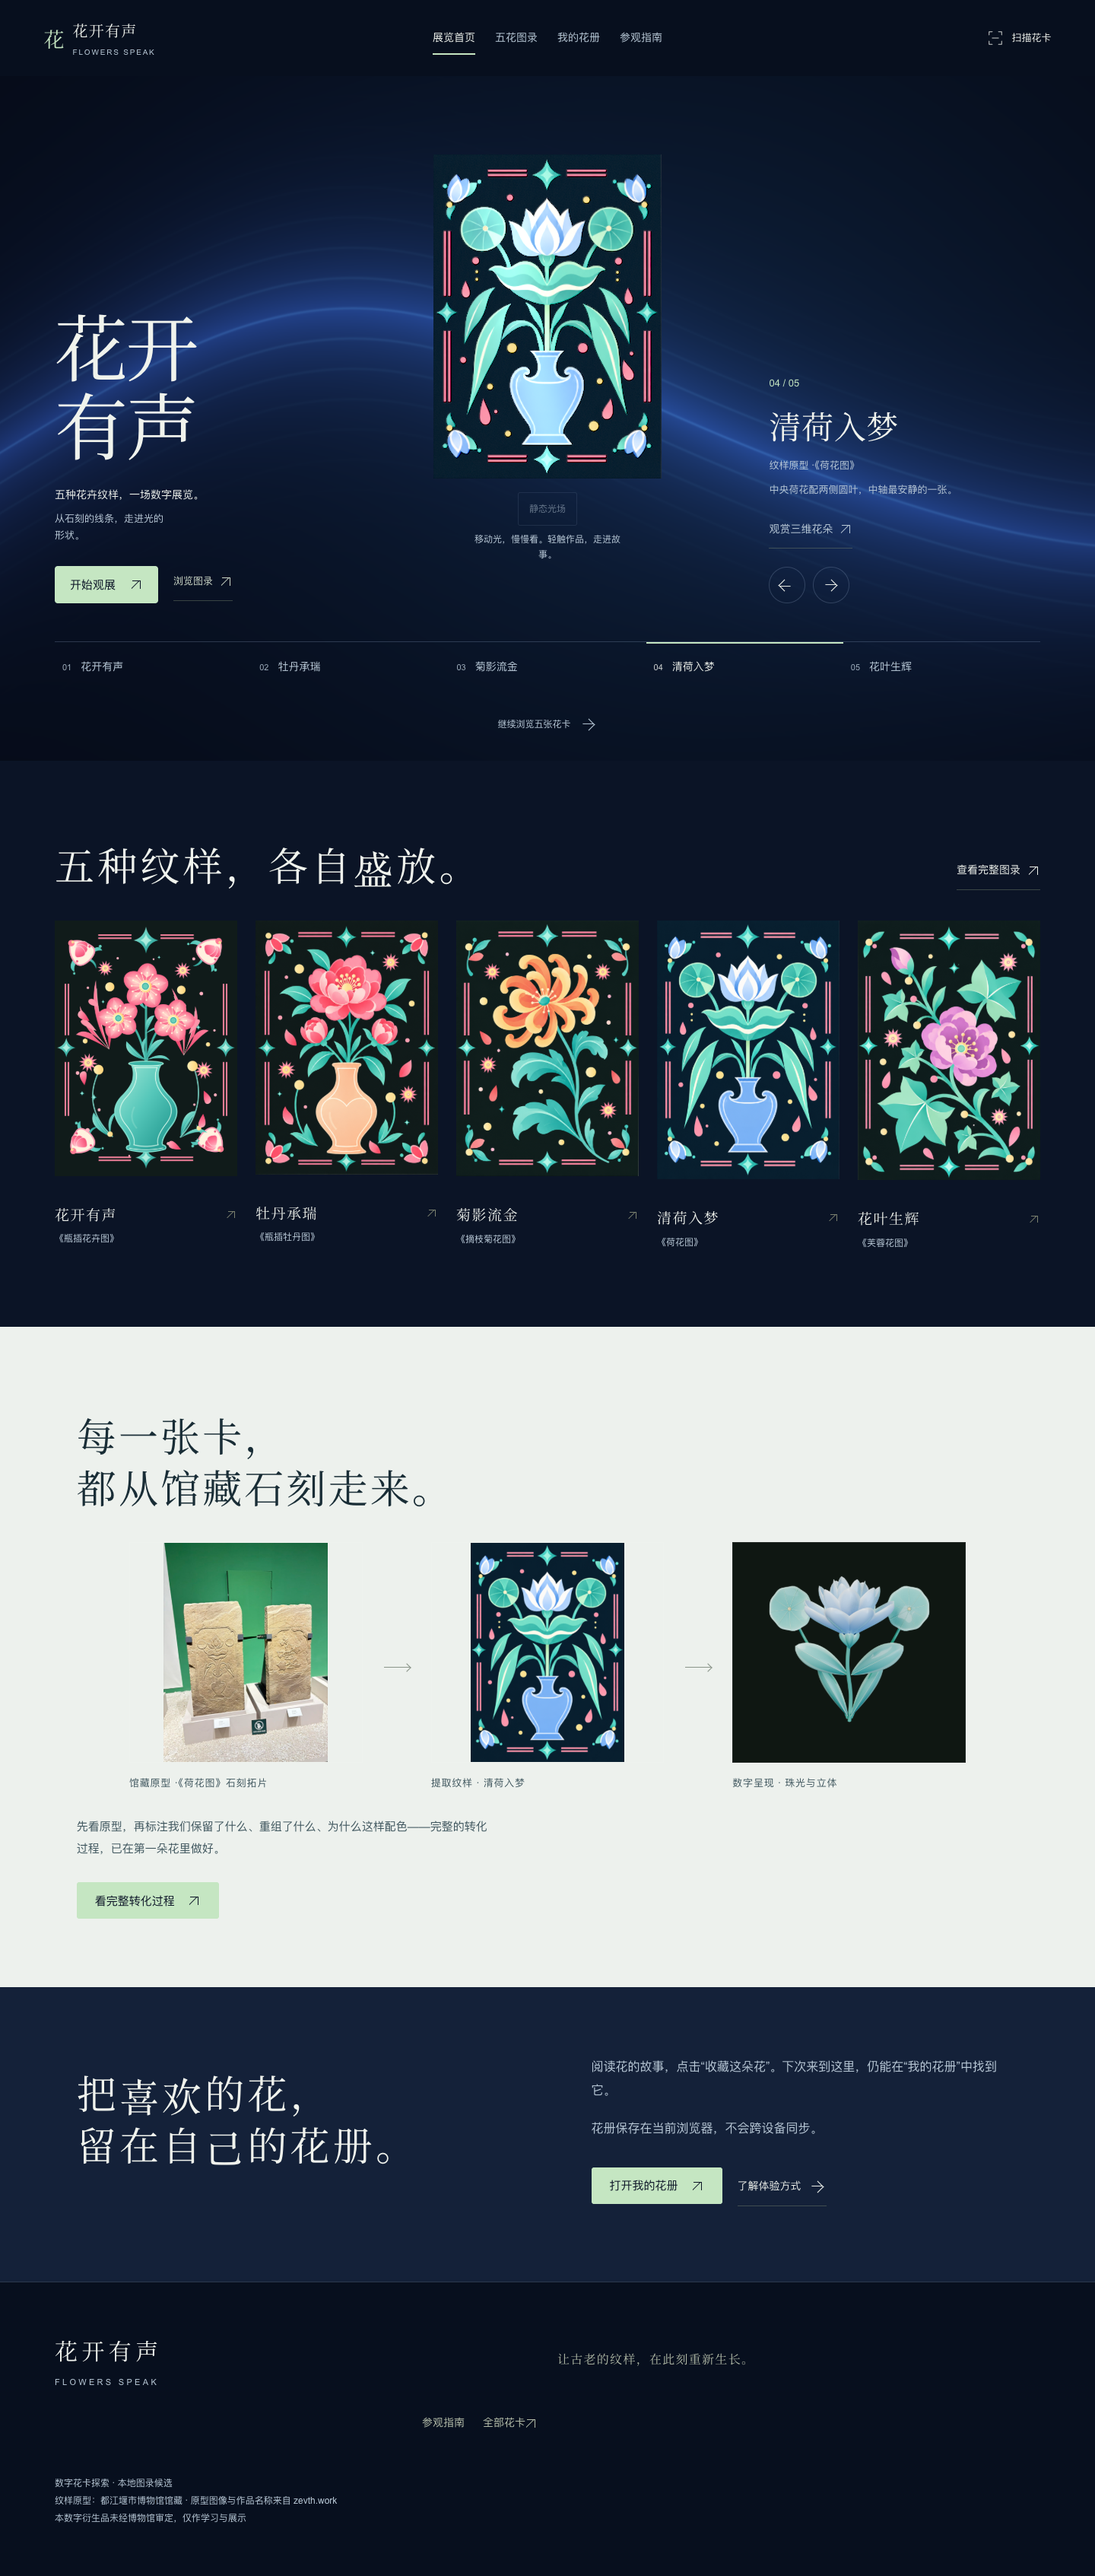
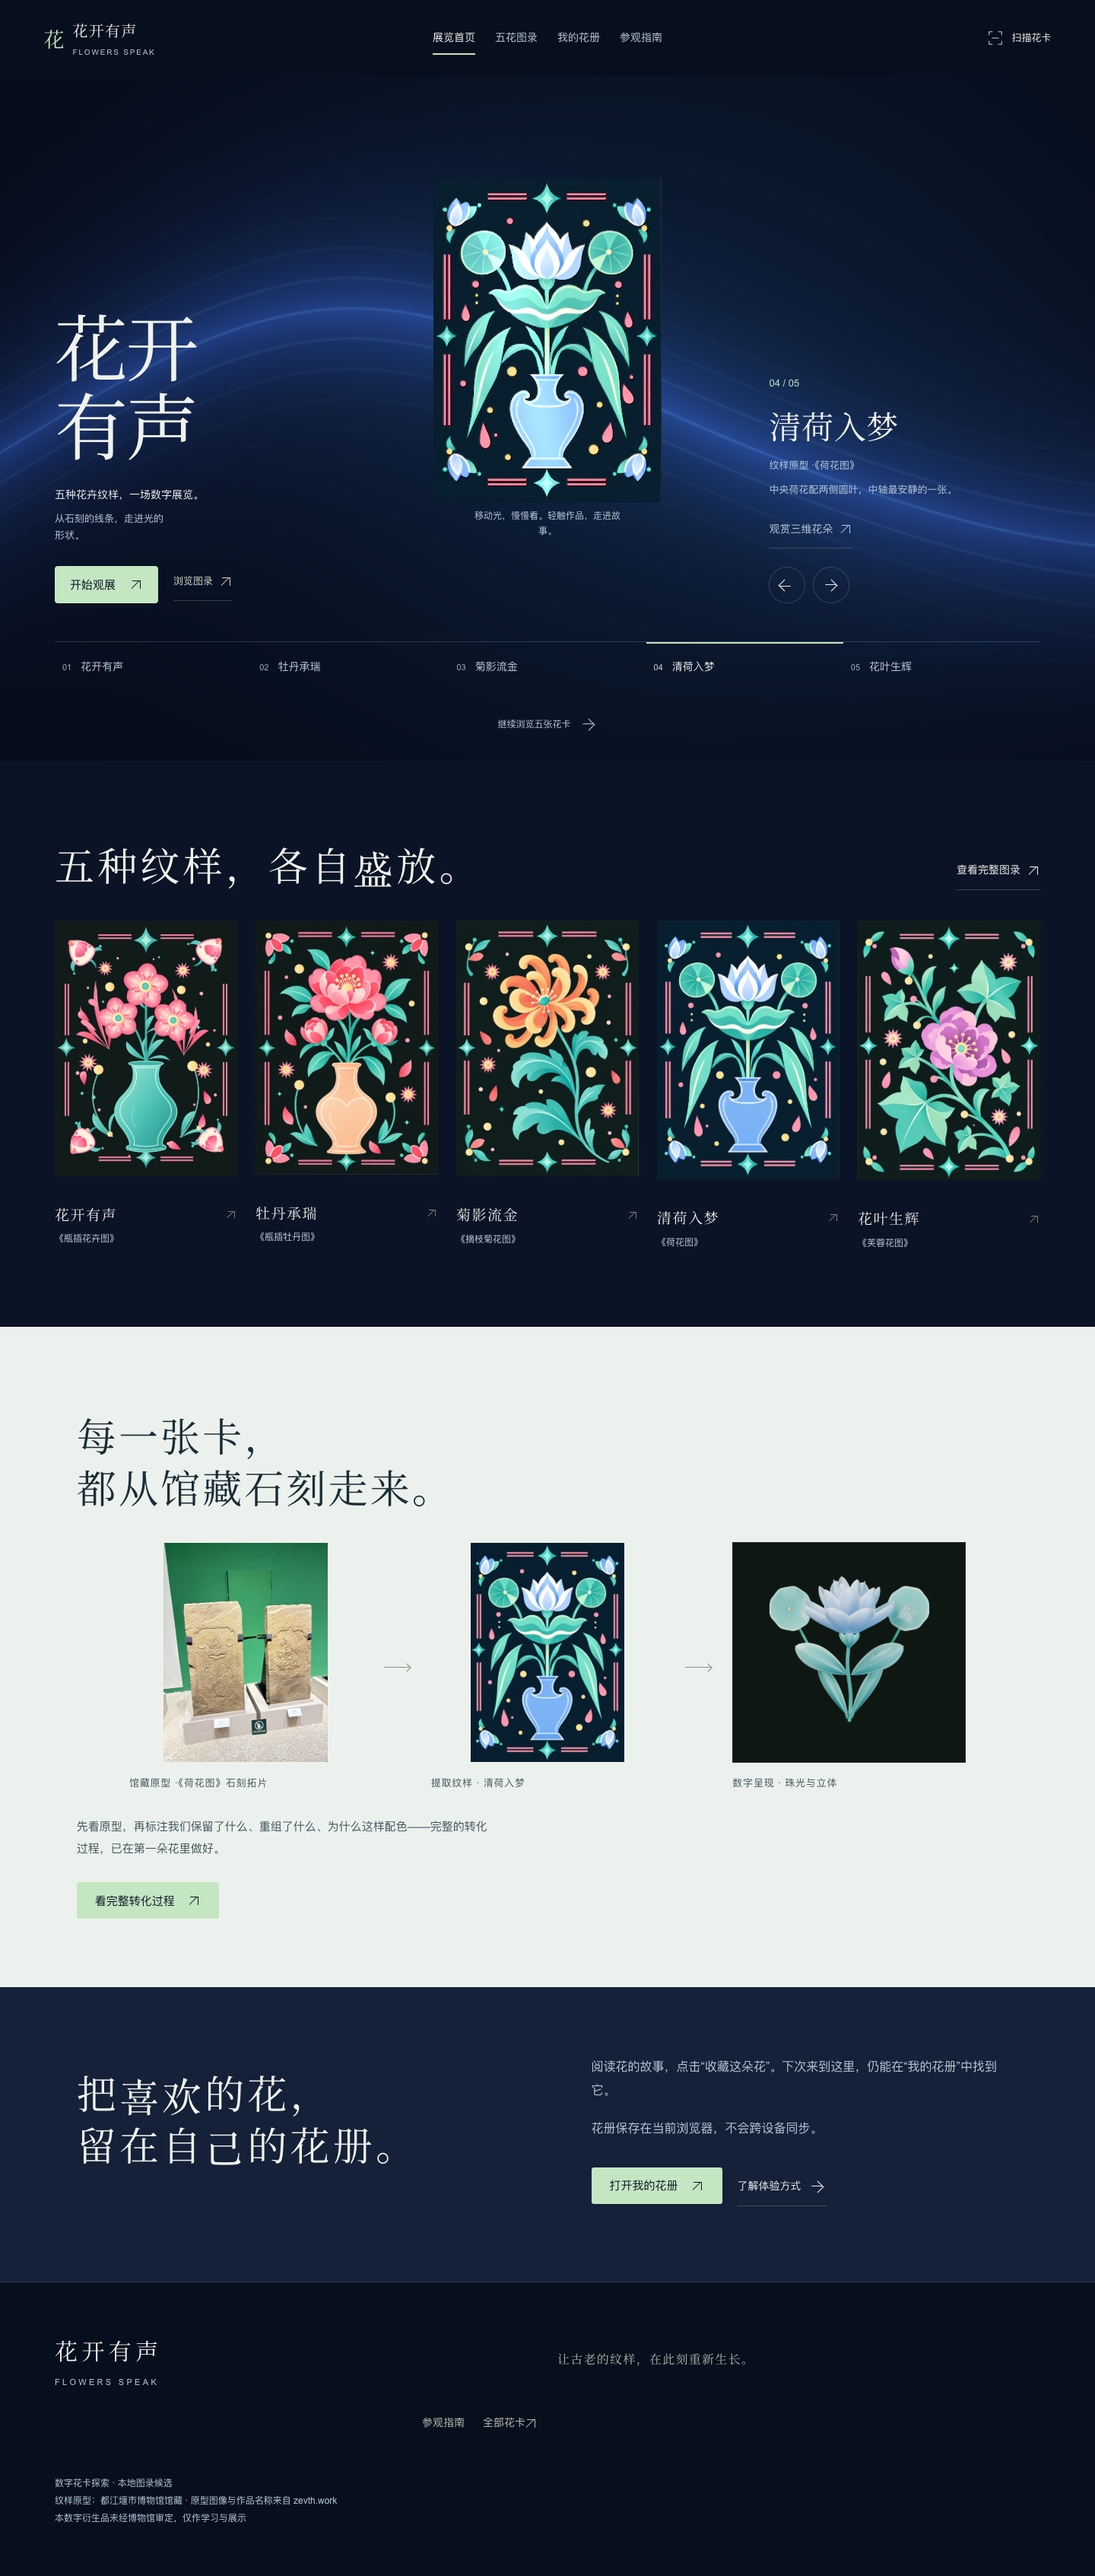
Keep artwork visible during switching and enable light effects by default

Changed region(s): [[0.4062, 0.062, 0.5938, 0.2171]]

diff --git a/public/exhibition.css b/public/exhibition.css
@@ -291,3 +291,8 @@ body[data-page=home] .portal-wordmark .home-description{max-width:18ch}
 }
 @media(max-width:350px){body[data-page=flower-detail] .detail-stage{height:395px}}
 @media print{.keepsake footer{display:block!important;background:white!important;color:#192d36!important;padding:16px!important}}
+
+/* Decode the next artwork before covering the current one; the stage never fades to black. */
+body[data-page=home] .home-main-card{position:relative}
+.home-main-card>[data-pearl]{position:relative;z-index:1}
+.home-main-card>.portal-outgoing{position:absolute;inset:0;pointer-events:none;z-index:0}

diff --git a/reports/transition-20261029/finish-review.md b/reports/transition-20261029/finish-review.md
@@ -1,0 +1,37 @@
+disposition: ship
+
+输入边界：未提供本轮 detector 输出、QUALITY BAR 卡片或原始选种记录；本轮是既有 code-led 世界的局部修复，无新增构图或 raster。评审限于首页切换、两个按钮移除和默认有限光效；不构成全站、生产环境或实体扫描验收。
+
+## persistence
+
+pass。已读取 PRODUCT.md、DESIGN.md 和 `.impeccable/surfaces/public-index-html.md`，既有 FORM 保留 seed `a43fbcac` 与 `webgl-shader-portal`。DESIGN.md 已记录先解码、320ms 叠化、默认响应输入、自动有限演示及减少动态分支。此次不要求重新选种或补做 comp round。
+
+已实际打开 `home-1033.png`、`home-390.png`、`home-320.png`：宽度分别为 1033、390、320，完整页面均从文档顶部开始，主原作及页面下方图像可见，无当前截图黑屏或横向截断。`tests/transition-browser.mjs` 设置的视口高度是 870；全页截图高度大于视口是正常结果。`before-delayed-switch.png` 明确作为旧故障证据，中心作品空缺，不作为当前成品验收图。
+
+## fidelity
+
+| 要素或承诺 | 判定 | 证据 |
+| --- | --- | --- |
+| TYPE | match | 大型两行展名、自托管 Exhibition 的既有字形和正文层级保留；本轮没有替换字体或标题。 |
+| MATERIAL | match | 中央完整彩色原作仍为视觉主体，保留图像比例；代码光场仍是原定媒介，没有用新装饰替换作品。 |
+| GROUND | match | 当前截图保留 OWN-WORLD 指定的深靛蓝、冷白正文、青绿提示；不是针对不存在的批准 comp 做像素复刻判断。 |
+| THESIS / FIRST VIEWPORT | match | 桌面原作居中、两侧文字和底部选择轨保留；手机按展名、作品、说明和选择轨自然下排。 |
+| STORY / 故事入口 | match | 等待解码时保留旧作品和旧故事入口；成功后作品名、入口、选择态与 hash 一起更新。 |
+| 移除两个图下按钮 | adaptation | 对应用户明确要求“演示光影 / 开启光场可以不用，默认开启”；源码和三个当前截图均无这两个控件。 |
+| 连续可见切换 | match | `select()` 等待 `img.decode()`，旧图保留在底层，新图以 320ms 叠化覆盖；最新请求标识过滤过期完成，失败保留旧图并允许重试。 |
+| 默认、有限光效 | adaptation | 对应用户默认开启要求；主作品 ready 后触发演示，光场由输入唤醒且约 900ms 后停止，保留减少动态分支。 |
+| FORM / 原生操作 | match | 保留自然滚动、原生指针、语义化选择按钮和键盘操作，没有新增阻断式加载步骤。 |
+
+动态判断依据为已读取的测试实现与 `checks.json` 的 21/21 结果，覆盖三种宽度的慢载、快速重复选择、键盘、减少动态，以及失败重试。逐 rAF 检查至少一张已解码原作或有效 2D 画布可见，并检查背景画布清空后是否补绘；源码 `resize()` 在尺寸变化时同步补绘。静态截图只证明完成态构图，不单独证明动态无黑帧；该测试亦不等同于所有浏览器及真机的逐像素合成层验证。
+
+## ceiling
+
+reached（仅本轮修复范围）。保留作品作为主角的既有尺度、深蓝空间和有限光场，移除额外控件后入口更集中；没有为了修复增加新的动效或装饰。未提供 QUALITY BAR 卡片，因此不对全站视觉上限另作评级。按 craft floor 检查本轮变更，未引入新的装饰性眉题、拟真材质替身、图标字符或无关阴影；作品序号继续表达五张作品中的位置。
+
+## material_fixes
+
+无。
+
+## keep
+
+保持完整原作在慢载与失败时可见、入口始终指向正在展示的作品，以及有限光效和减少动态偏好；不要重新对整张作品降亮度或在新图解码前移除旧图。

diff --git a/docs/TRANSITION-FIX-20261029.md b/docs/TRANSITION-FIX-20261029.md
@@ -1,0 +1,11 @@
+# 首页切换连续性修复
+
+用户在1033×870预览中反馈切换黑屏，并要求取消光影按钮、默认开启效果。
+
+修复前用延迟图片请求复现：旧图已被移除，新图尚未加载，整个主卡片opacity为0.35。修复后等待新图decode成功才提交作品名、链接与选择状态；新图320ms叠化，旧图在其下方完整保留。慢请求不会覆盖较新的选择，失败时保留当前作品并可再次选择重试。背景canvas只在实际尺寸变化时重设尺寸，并在同一回调补绘。
+
+移除首页“演示光影”和光场开关；背景默认响应输入，珠光就绪时自动演示一次约1.6秒，随后静止。离屏、后台及系统减少动态效果仍停止非必要动态。未更改原作、故事或音频。
+
+本机验证：181项单测；切换专项21/21，含逐动画帧的已解码图像/实际2D像素可见性和背景清屏补绘状态；1033、390、320三宽度；快速重复、键盘、错误恢复、减少动态。现有光场/备份57/57、珠光集成146/146。全套云端结果另列发布记录；不沿用旧提交CI结果。
+
+未改正式服务器，main不合并，更新现有草稿PR与Sites验收站。
